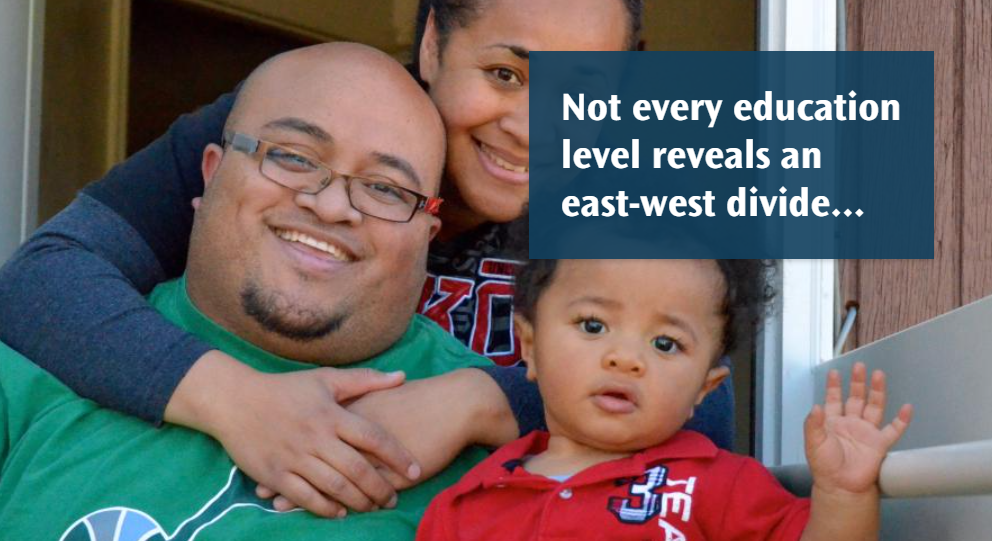
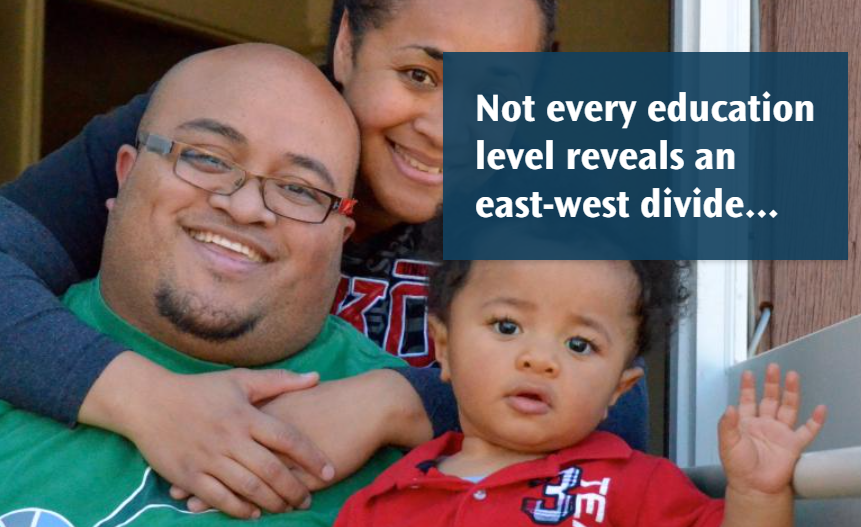
Update about pic
And remove unneeded image files

diff --git a/index.html b/index.html
@@ -118,7 +118,7 @@
                                 <div class="portfolio-hover">
                                     <div class="portfolio-hover-content"><i class="fas fa-plus fa-3x"></i></div>
                                 </div>
-                                <img class="img-fluid" src="assets/img/portfolio/storymap_education_familyphoto02.PNG" alt="..." />
+                                <img class="img-fluid" src="assets/img/portfolio/storymap_education_familyphoto.PNG" alt="..." />
                             </a>
                             <div class="portfolio-caption">
                                 <div class="portfolio-caption-heading">Story Maps</div>
@@ -197,7 +197,7 @@
                 </div>
 					<div class="text-center">
                         <div class="team-member">
-                            <img class="mx-auto rounded-circle" src="assets/img/myface03.PNG" alt="NY face" />
+                            <img class="mx-auto rounded-circle" src="assets/img/myface_in_corn.PNG" alt="NY face" />
                             <h4>Natalie Young</h4>
                             <h5>Geographer, Data Analyst, Researcher, Mapmaker</h5>
                         </div>		
